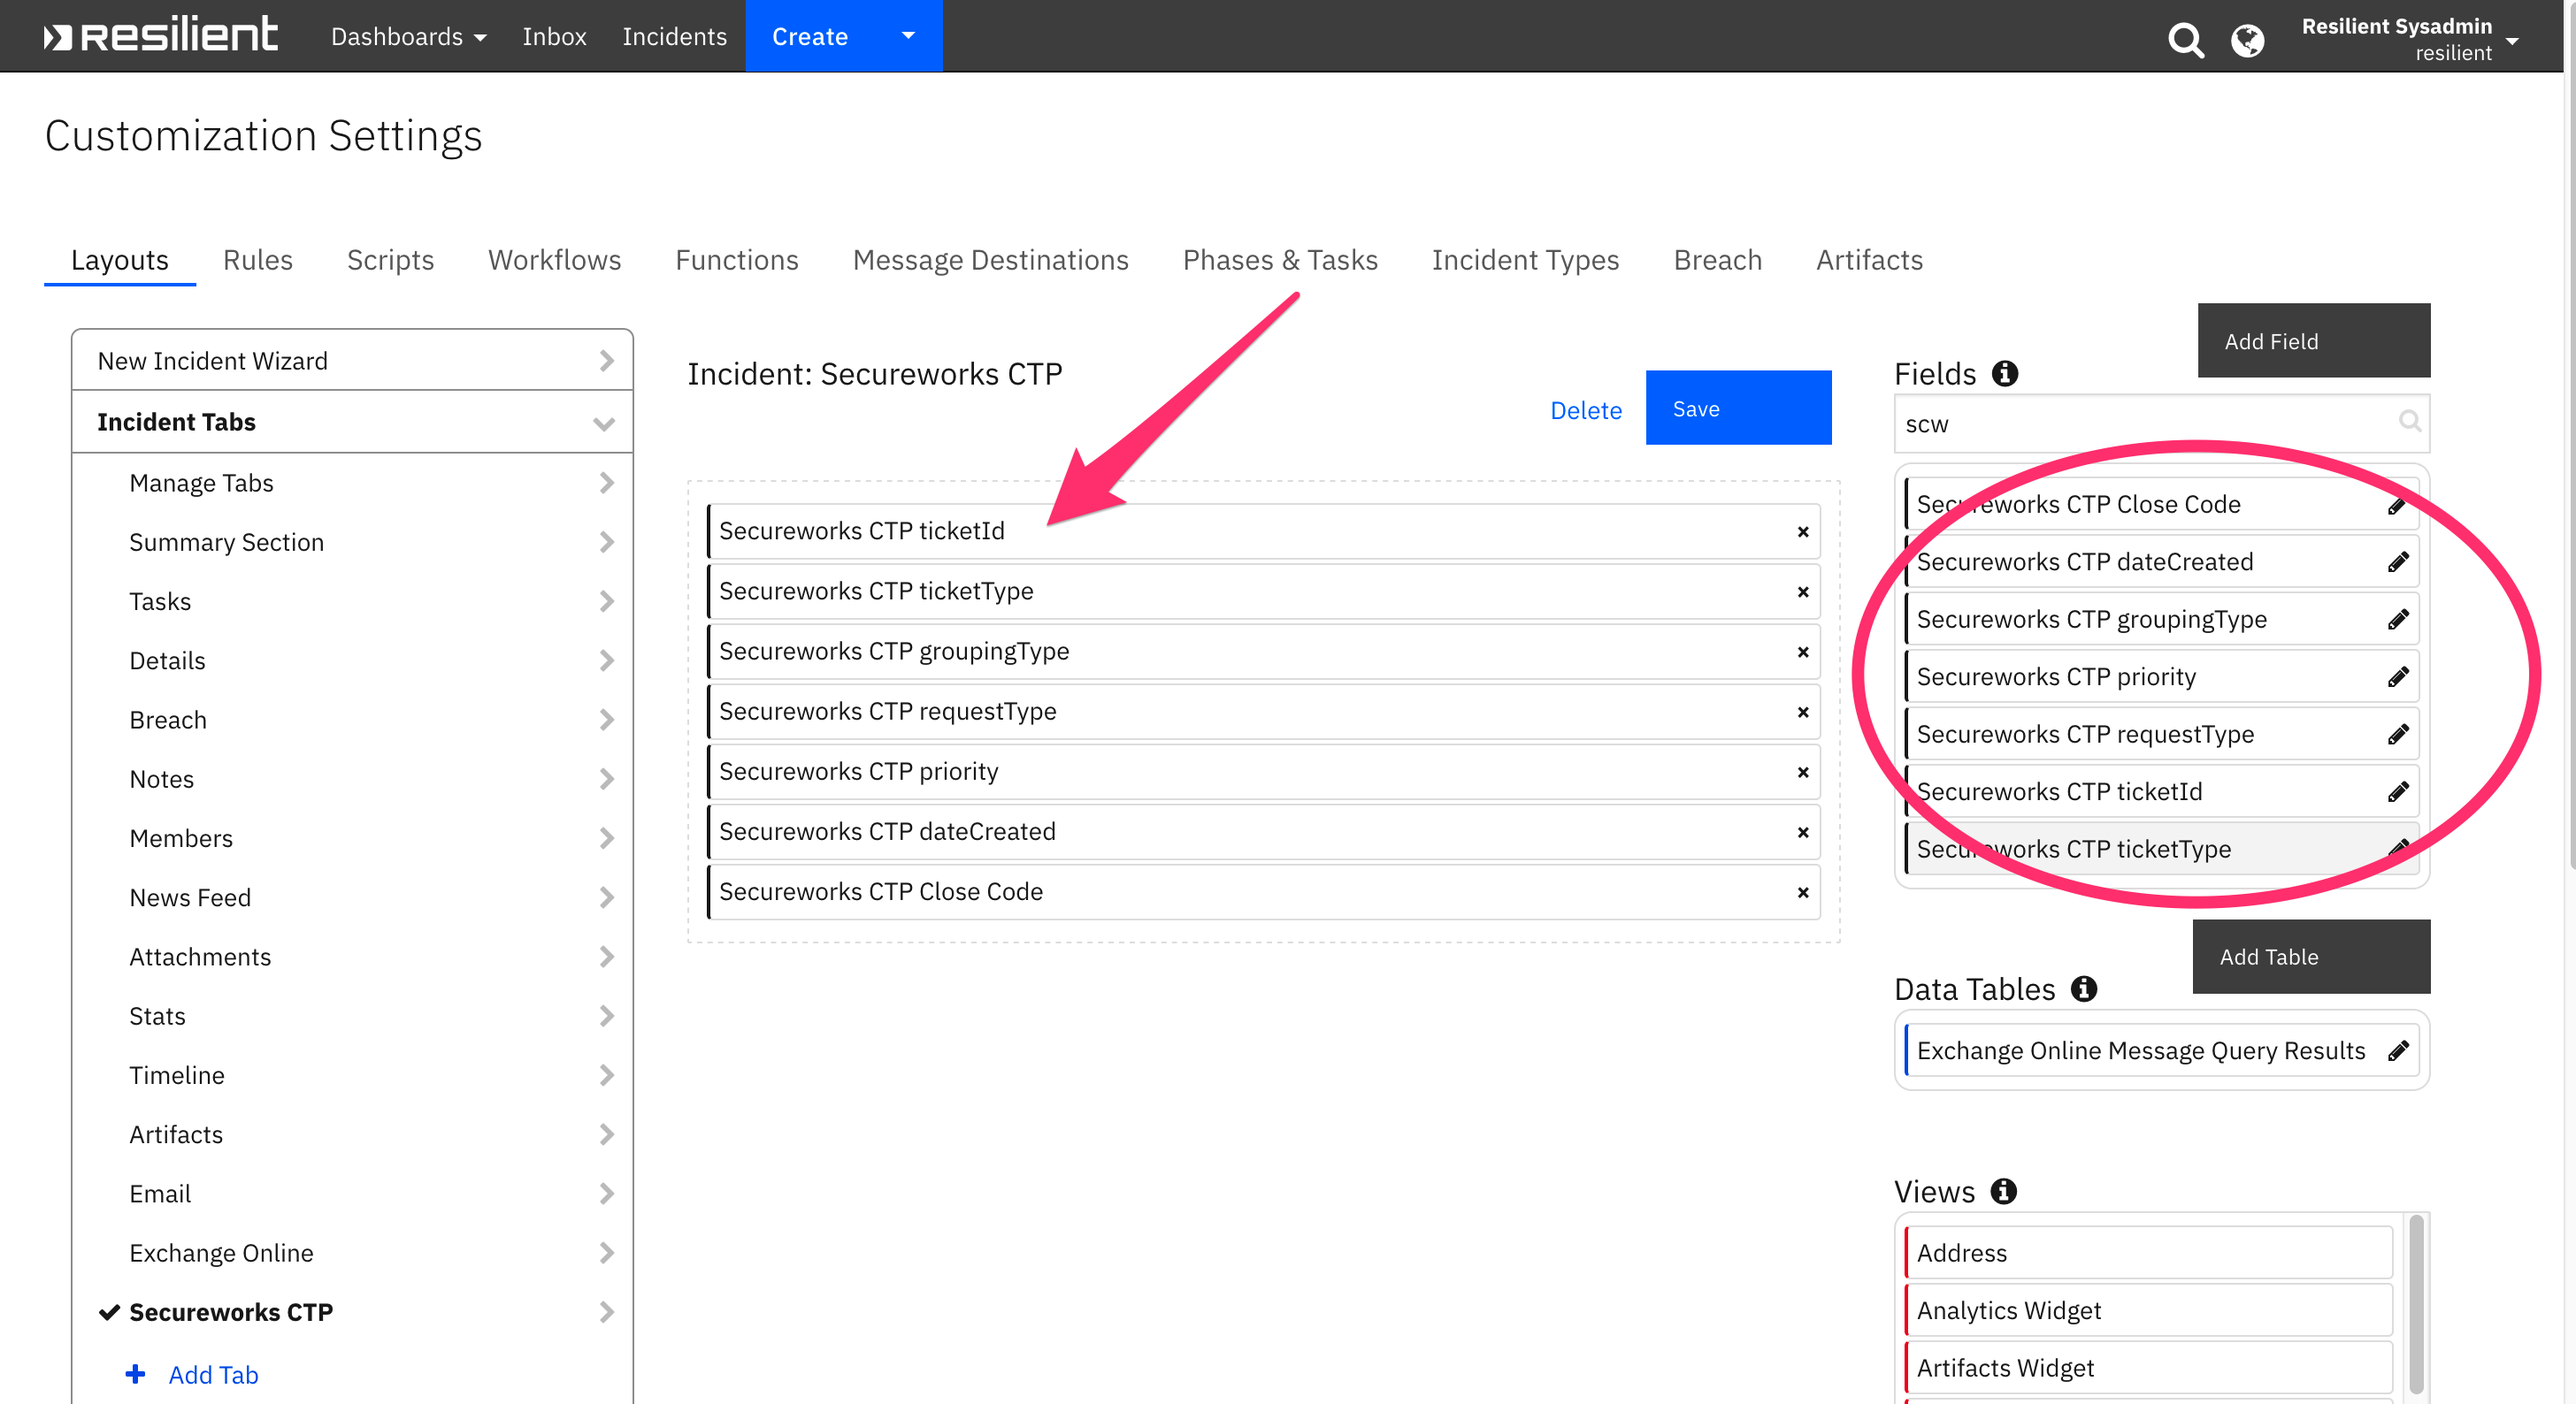
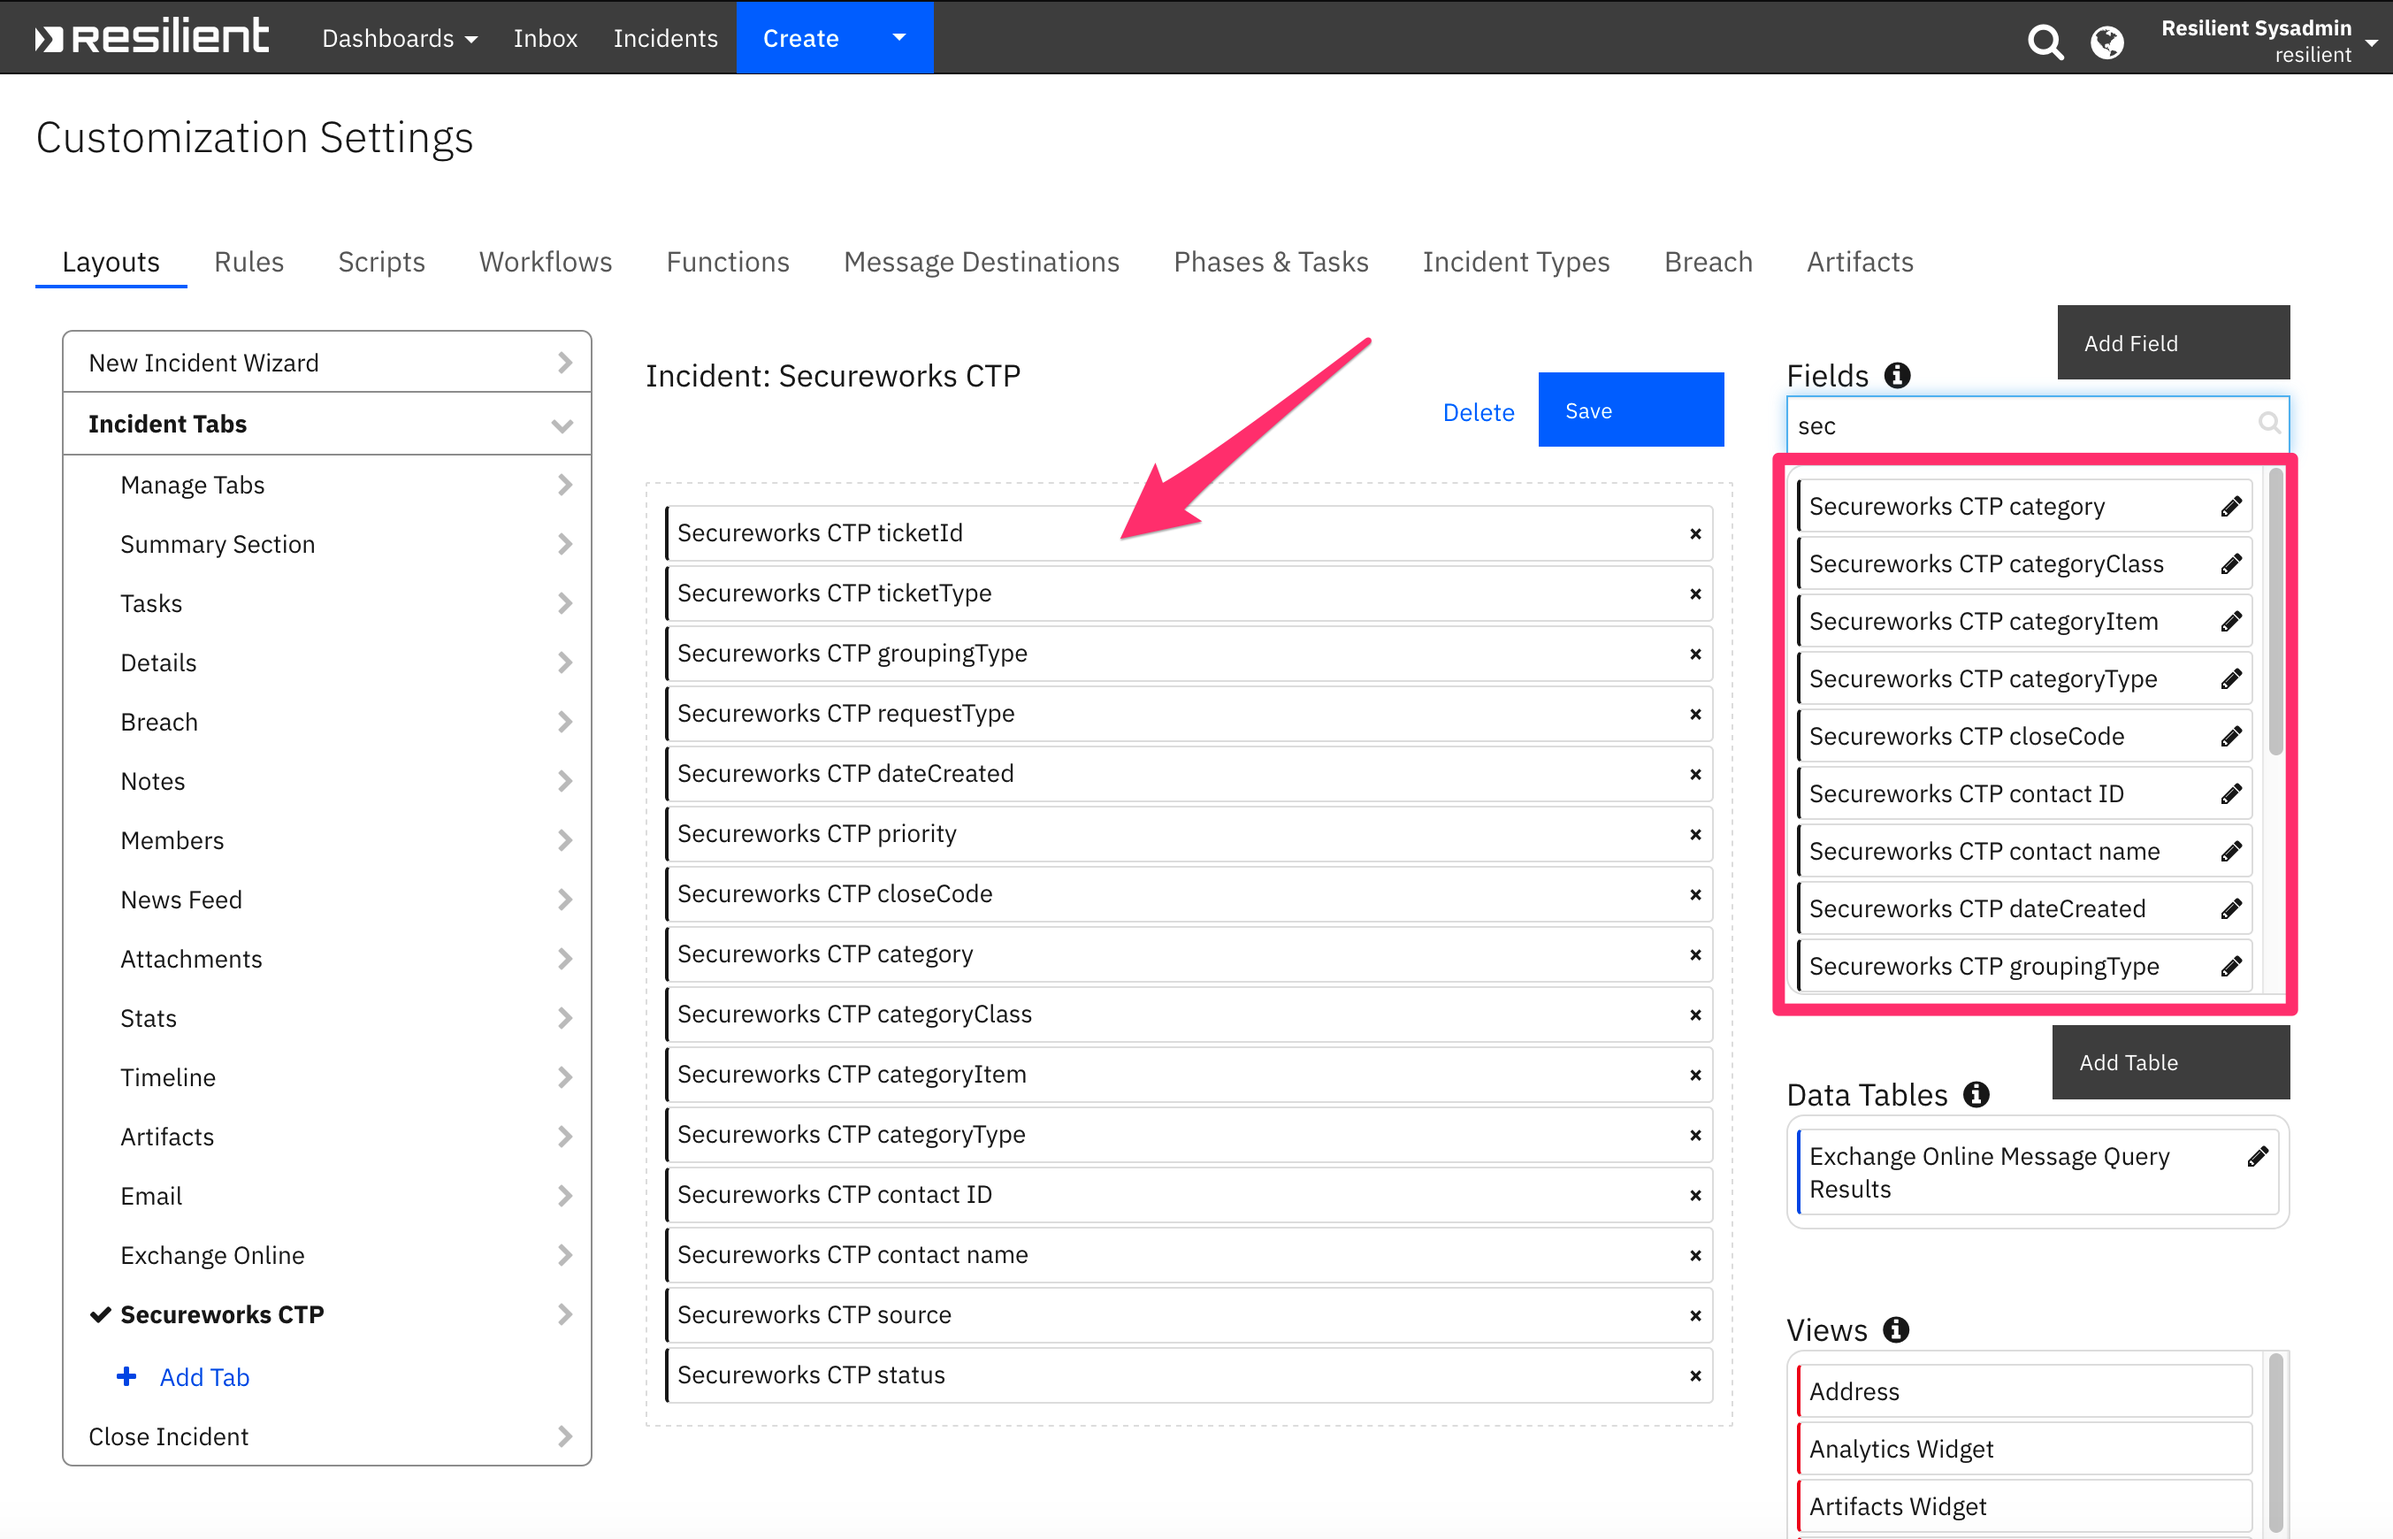
INT-2589 update docs

diff --git a/fn_secureworks_ctp/doc/README.md b/fn_secureworks_ctp/doc/README.md
@@ -36,6 +36,7 @@ The Secureworks CTP integration implements the following functionality in the Re
 * Poll Secureworks CTP for tickets and create a corresponding incident in the Resilient platform for each ticket.
 * Get Secureworks CTP ticket workLogs and attachments and add them as notes and attachments in the corresponding Resilient incident.
 * Close a Secureworks CTP ticket when the corresponding Resilient incident is closed.
+* Close a Resilient incident when the corresponding Secureworks CTP ticket is closed in Secureworks.
 ---
 ## Integration Flow for Ticket Management
 
@@ -55,6 +56,8 @@ NOTE: The integration uses default Secureworks CTP close codes that appear in th
 ![screenshot: swcx_close_ticket_popup](./screenshots/scwx_close_ticket_popup.png)
 
 <p>
+If the Secureworks ticket is closed in Secureworks portal, the poller detects this in Resilient and closes the corresponding incident.  The poller uses a default jinja template for closing an incident in this case.  The jinja template defines the incident fields and values necessary at incident closure. The user can customize their own template if needed and specify the file location in the template_file_close parameter in the app.config file.  
+<p>
 
 ---
 ## Poller
@@ -71,7 +74,32 @@ The integration poller runs continuously while the integration is running.
   * HEALTH
   * SECURITY
 * The poller adds Secureworks CTP ticket workLogs and attachments as incident notes and attachments in the corresponding Resilient incident.
-* Poller interval can be set in the app.config to specify how often the integration checks for updated tickets from Secureworks CTP. 
+* Poller interval can be set in the app.config to specify how often the integration checks for updated tickets from Secureworks CTP. An interval value of zero will turn off the poller.
+* The poller closes a Resilient incident if the corresponding Secureworks ticket is closed in the Securewokrs portal.
+
+---
+## Custom Incident Fields
+The following custom incident fields are available in the integration and can be viewed on the Secureworks CTP custom layout tab.  The Secureworks CTP Install Guide describes how to create the layout in the Resilient Platform UI.  A jinja template file is used to map the Securework ticket fields to a field in Resilient.  The user can add more fields and customizations using their own jinja template file defined in the app.config template_file_escalate parameter.
+<p>
+
+| Resilient custom incident field | Secureworks CTP Ticket field
+| ----------------------- | ----------------------|
+|scwx_ctp_category | category |
+|scwx_ctp_category_class | categoryClass |
+|scwx_ctp_category_item | categoryItem |
+|scwx_ctp_category_type | categoryType |
+|scwx_ctp_close_code | closeCode |
+|scwx_ctp_contact_id | contact: id |
+|scwx_ctp_contact_name | contact: name |
+|scwx_ctp_date_created | dateCreated |
+|scwx_ctp_grouping_type | groupingType |
+|scwx_ctp_priority | priority |
+|scwx_ctp_request_type | requestType |
+|scwx_ctp_source | source |
+|scwx_ctp_status | status|
+|scwx_ctp_ticket_id | ticketId |
+|scwx_ctp_ticket_type | ticketType |
+
 
 ---
 
@@ -162,7 +190,7 @@ incident.addNote(noteText)
 <details><summary>Example Rule:</summary>
 
 <p>
-The example Secureworks CTP Close Ticket rule is an automatic rule which is activated when an incident is closed that has a Secureworks CTP ticket ID associated with it via the scwx_ctp_ticket_id custom incident field.  The rule automatically initiates the example Close Secureworks Ticket workflow under these conditions as shown in the screenshot:
+The example Secureworks CTP Close Ticket rule is an automatic rule which is activated when an incident is closed that has a Secureworks CTP ticket ID associated with it via the scwx_ctp_ticket_id custom incident field. The automatic rule will not execute if the status of the ticket in Secureworks is Closed or Resolved. The rule automatically initiates the example Close Secureworks Ticket workflow under these conditions as shown in the screenshot:
 
 ![screenshot: scwx_close_ticket_rule](./screenshots/scwx_close_ticket_rule.png)
 

diff --git a/fn_secureworks_ctp/README.md b/fn_secureworks_ctp/README.md
@@ -49,6 +49,7 @@ CTP is used with the Secureworks SOC team when they find a security issue that n
 * Poll Secureworks CTP for tickets and create a corresponding incident in the Resilient platform for each ticket.
 * Get Secureworks CTP ticket workLogs and attachments and add them as notes and attachments in the corresponding Resilient incident.
 * Close a Secureworks CTP ticket when the corresponding Resilient incident is closed.
+* Close a Resilient incident when the corresponding Secureworks CTP ticket is closed in Secureworks.
 
 
  ![screenshot: main](./doc/screenshots/scwx_main.png)
@@ -104,6 +105,8 @@ CTP is used with the Secureworks SOC team when they find a security issue that n
   | **assigned_to_customer** | Yes | `true` | *Boolean indicating whether to only return tickets assigned to the client* |
   | **polling_interval** | Yes | `600` | *Time in seconds between queries to Secureworks endpoint* |
   | **close_codes** | No | `Authorized Activity,Confirmed Security Incident,Duplicate,Incident Misidentified,Inconclusive,Not Actionable,Not Vulnerable,Threat Mitigated` | *Comma separated list of close codes to override the defaults* |
+  | **template_file_escalate** | No | `` | *Path to a custom jinja template file used to escalate a Secureworks Ticket to Resilient* |
+  | **template_file_close** | No | `` | *Path to a custom jinja template file used to close a Resilient incident when the corresponding ticket is 'Closed' or 'Resolved' in Secureworks* |
   | **cafile** | No | `` | *Path to certificate file* |
 
 * **Save** and **Close** the app.config file.
